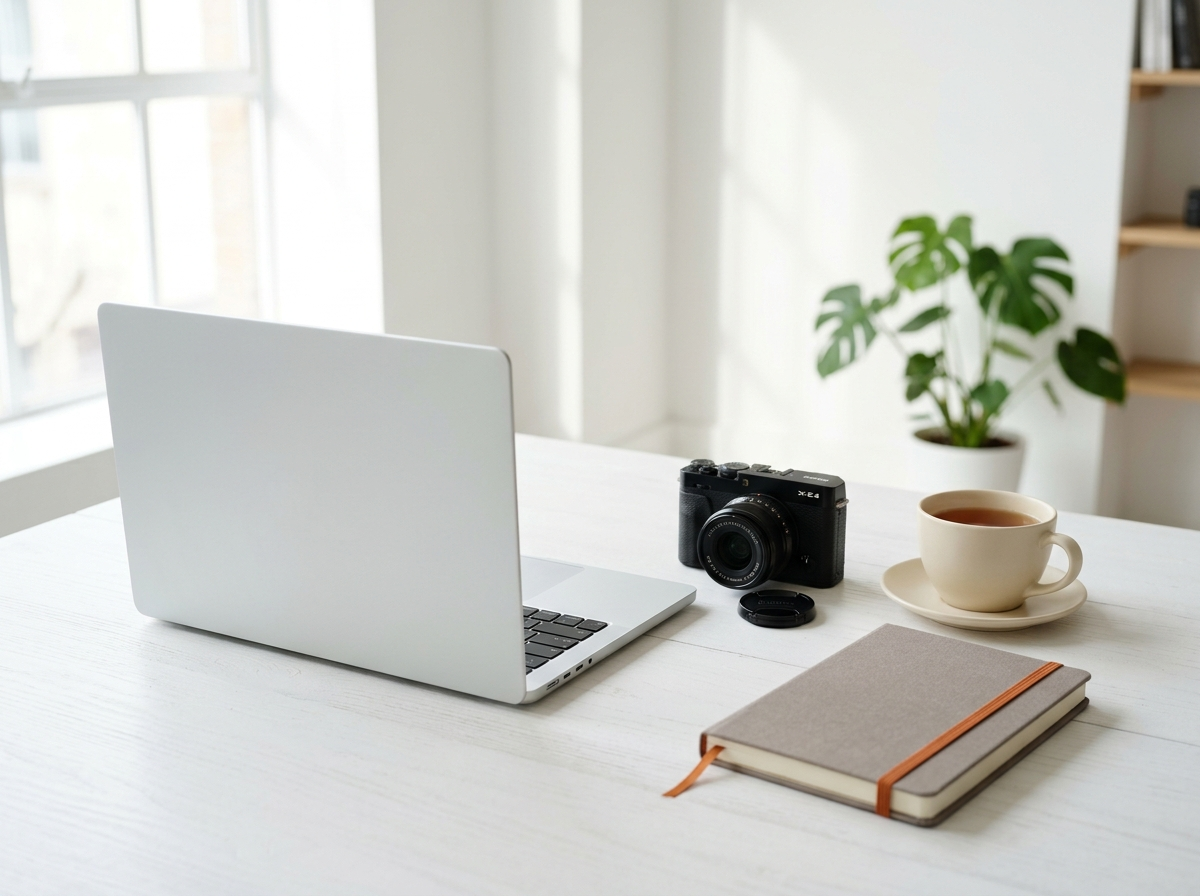
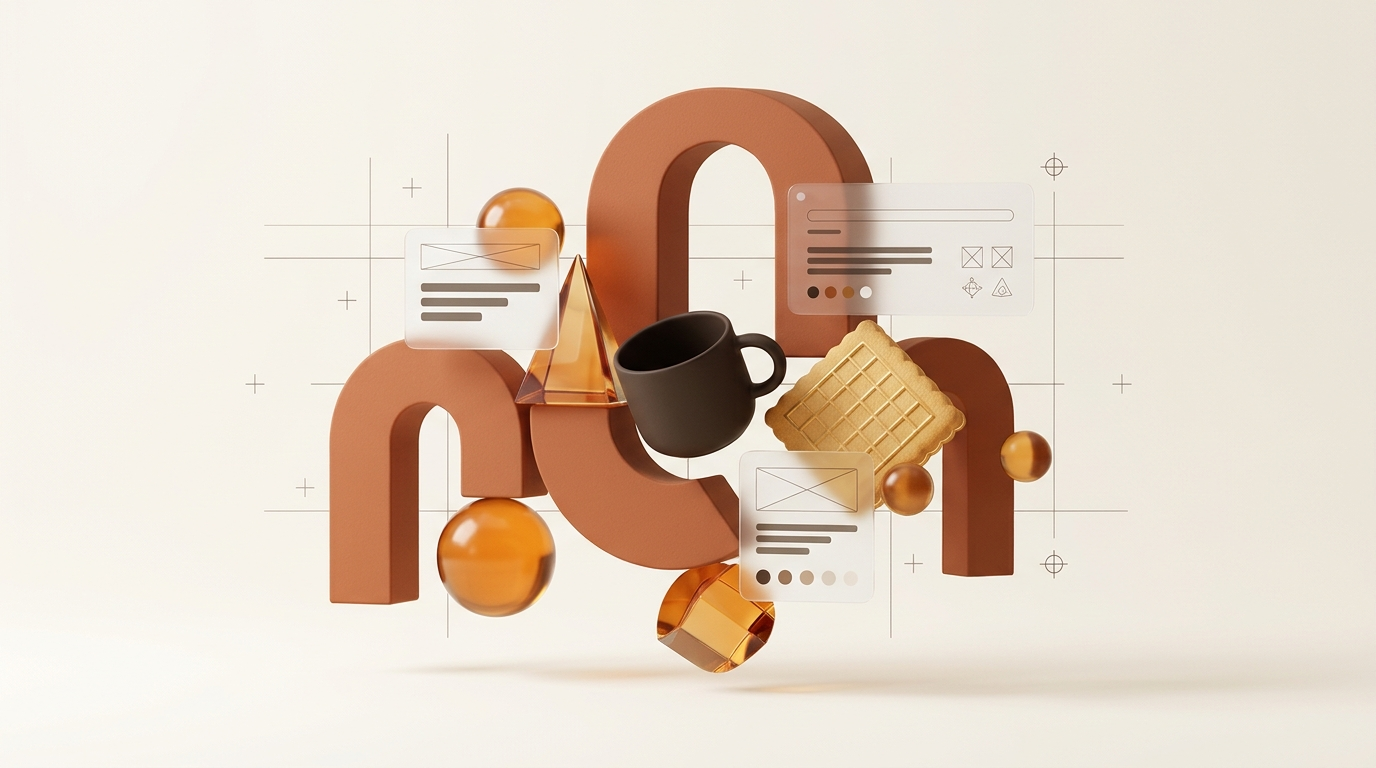
yretdg

diff --git a/css/style.css b/css/style.css
@@ -4887,8 +4887,7 @@ body.thinkb-light-theme {
   font-style: normal !important;
 }
 
-/* Remove Heavy Bold Globally — Clean Light & Regular ThinkB Typography */
-body.thinkb-light-theme *,
+/* Remove Heavy Bold Globally — Clean Light & Regular Poppins (WITHOUT Breaking Font Awesome Icons!) */
 body.thinkb-light-theme h1,
 body.thinkb-light-theme h2,
 body.thinkb-light-theme h3,
@@ -4902,6 +4901,9 @@ body.thinkb-light-theme button,
 body.thinkb-light-theme span,
 body.thinkb-light-theme p,
 body.thinkb-light-theme li,
+body.thinkb-light-theme small,
+body.thinkb-light-theme blockquote,
+body.thinkb-light-theme label,
 body.thinkb-light-theme input,
 body.thinkb-light-theme textarea,
 body.thinkb-light-theme select {
@@ -4917,65 +4919,113 @@ body.thinkb-light-theme .mil-button {
   font-weight: 500 !important;
 }
 
+/* Strictly Preserve Font Awesome 6 Icon Families, Weights & Visibility */
 body.thinkb-light-theme i,
 body.thinkb-light-theme .fa-solid,
-body.thinkb-light-theme .fa-brands,
-body.thinkb-light-theme .fa-regular {
+body.thinkb-light-theme .fas {
+  font-family: "Font Awesome 6 Free" !important;
   font-style: normal !important;
   font-weight: 900 !important;
 }
-body.thinkb-light-theme .fa-brands {
+
+body.thinkb-light-theme .fa-regular,
+body.thinkb-light-theme .far {
+  font-family: "Font Awesome 6 Free" !important;
+  font-style: normal !important;
   font-weight: 400 !important;
 }
 
-/* Monochrome 3D Watermark Logo & Subtle 3D Animated Elements (No Color Distraction) */
+body.thinkb-light-theme .fa-brands,
+body.thinkb-light-theme .fab {
+  font-family: "Font Awesome 6 Brands" !important;
+  font-style: normal !important;
+  font-weight: 400 !important;
+}
+
+/* Fix Portfolio Expanded Card Spacing & Button Visibility on Light Theme */
+body.thinkb-light-theme .portfolio___section .flex__box .p__box .txt__box {
+  justify-content: flex-start !important;
+  gap: 22px !important;
+  padding: 28px !important;
+}
+
+body.thinkb-light-theme .portfolio___section .txt__box .flex__content {
+  margin-top: 0 !important;
+  flex: 1;
+  align-items: center;
+}
+
+body.thinkb-light-theme .portfolio___section .txt__box .view-work-btn,
+body.thinkb-light-theme .portfolio___section .txt__box .view-work-btn:hover {
+  background: #FF6B00 !important;
+  color: #FFFFFF !important;
+  border-color: #FF6B00 !important;
+}
+
+body.thinkb-light-theme .portfolio___section .txt__box .view-work-btn i,
+body.thinkb-light-theme .tb-btn i,
+body.thinkb-light-theme .hb-btn i,
+body.thinkb-light-theme .hw-btn i,
+body.thinkb-light-theme .offcanvas-wa-cta i {
+  color: #FFFFFF !important;
+  -webkit-text-fill-color: #FFFFFF !important;
+}
+
+body.thinkb-light-theme .portfolio___section .flex__box .p__box .img__box .p__tag {
+  background: rgba(255, 255, 255, 0.94) !important;
+  color: #FF6B00 !important;
+  border: 1px solid rgba(255, 107, 0, 0.32) !important;
+  text-shadow: none !important;
+}
+
+/* Monochrome 3D Watermark Logo & Subtle 3D Animated Elements (Clearly Visible Behind Transparent White Canvas) */
 body.thinkb-light-theme .cyber-bg-fx {
   background: transparent;
   z-index: 0;
 }
 body.thinkb-light-theme .bg-logo-rotor--hero {
-  width: 340px;
-  height: 340px;
-  top: 9vh;
+  width: 360px;
+  height: 360px;
+  top: 10vh;
   right: 2.5vw;
-  opacity: 0.13;
+  opacity: 0.22;
 }
 body.thinkb-light-theme .bg-logo-ring-outer {
-  border: 1.5px dashed rgba(20, 20, 20, 0.28);
+  border: 1.5px dashed rgba(20, 20, 20, 0.34);
   box-shadow: none;
 }
 body.thinkb-light-theme .bg-logo-ring-inner {
-  border: 1px solid rgba(20, 20, 20, 0.14);
-  border-top-color: rgba(20, 20, 20, 0.38);
-  border-bottom-color: rgba(20, 20, 20, 0.38);
+  border: 1px solid rgba(20, 20, 20, 0.18);
+  border-top-color: rgba(20, 20, 20, 0.45);
+  border-bottom-color: rgba(20, 20, 20, 0.45);
 }
 body.thinkb-light-theme .bg-logo-watermark {
-  filter: grayscale(100%) contrast(1.15) !important;
-  opacity: 0.85;
+  filter: grayscale(100%) contrast(1.2) !important;
+  opacity: 0.92;
 }
 body.thinkb-light-theme .bg-3d-cube-zone {
-  opacity: 0.13;
+  opacity: 0.22;
 }
 body.thinkb-light-theme .bg-3d-cube-face {
-  border: 1.5px solid rgba(20, 20, 20, 0.32);
-  background: rgba(20, 20, 20, 0.04);
-  box-shadow: inset 0 0 18px rgba(0, 0, 0, 0.04);
-  color: #262626 !important;
+  border: 1.5px solid rgba(20, 20, 20, 0.38);
+  background: rgba(20, 20, 20, 0.05);
+  box-shadow: inset 0 0 18px rgba(0, 0, 0, 0.05);
+  color: #1A1A1A !important;
 }
 body.thinkb-light-theme .bg-3d-cube-face i,
 body.thinkb-light-theme .bg-3d-cube-face span {
-  color: #262626 !important;
-  -webkit-text-fill-color: #262626 !important;
+  color: #1A1A1A !important;
+  -webkit-text-fill-color: #1A1A1A !important;
 }
 body.thinkb-light-theme .bg-3d-dm-item {
-  color: rgba(20, 20, 20, 0.11) !important;
+  color: rgba(20, 20, 20, 0.20) !important;
   filter: none !important;
 }
 body.thinkb-light-theme .bg-3d-crosshair {
-  color: rgba(20, 20, 20, 0.22) !important;
+  color: rgba(20, 20, 20, 0.32) !important;
 }
 body.thinkb-light-theme .bg-3d-geoFrame {
-  border: 1.5px solid rgba(20, 20, 20, 0.12) !important;
+  border: 1.5px solid rgba(20, 20, 20, 0.20) !important;
   box-shadow: none !important;
 }
 
@@ -5123,13 +5173,13 @@ body.thinkb-light-theme .offcanvas-info-item span {
   color: #262626 !important;
 }
 
-/* Clean Minimal Light Sections (Translucent White & Off-White So Monochrome 3D Watermarks Show Through) */
+/* Clean Minimal Light Sections (Transparent White & Light Veil So Monochrome 3D Logo & Camera Show Clearly) */
 body.thinkb-light-theme .intro-area,
 body.thinkb-light-theme .service-area,
 body.thinkb-light-theme .about__section,
 body.thinkb-light-theme .collective-team-area,
 body.thinkb-light-theme .tb-faq-area {
-  background: rgba(255, 255, 255, 0.82) !important;
+  background: transparent !important;
   border-color: #EFEFEF !important;
 }
 
@@ -5139,8 +5189,129 @@ body.thinkb-light-theme .founder-area,
 body.thinkb-light-theme .testimonial__se_ction,
 body.thinkb-light-theme .home-cta-area,
 body.thinkb-light-theme .cta-area {
-  background: rgba(248, 248, 249, 0.84) !important;
+  background: rgba(246, 246, 248, 0.45) !important;
   border-color: #EFEFEF !important;
+}
+
+/* Slightly Increased, Generous & Easy-to-Read Font Sizes + Attractive Hero Framing */
+html {
+  font-size: 17px;
+}
+
+body.thinkb-light-theme .intro-area {
+  padding: 64px 0 88px !important;
+}
+
+body.thinkb-light-theme .intro-title {
+  font-size: clamp(2.65rem, 4.9vw, 4.25rem) !important;
+  line-height: 1.15 !important;
+  margin-bottom: 22px !important;
+}
+
+body.thinkb-light-theme .intro-content .text {
+  font-size: 18.5px !important;
+  line-height: 1.75 !important;
+  max-width: 560px;
+}
+
+body.thinkb-light-theme p {
+  font-size: 16.5px;
+}
+
+.hero-craft-pills {
+  display: flex;
+  flex-wrap: wrap;
+  gap: 10px;
+  margin-top: 28px;
+}
+
+.hero-craft-pill {
+  display: inline-flex;
+  align-items: center;
+  gap: 8px;
+  padding: 8px 16px;
+  border-radius: 999px;
+  background: #FFFFFF;
+  border: 1px solid #E6E6E6;
+  color: #2A2A2A !important;
+  font-size: 14px;
+  box-shadow: 0 4px 12px rgba(0, 0, 0, 0.04);
+  transition: var(--transition);
+}
+
+.hero-craft-pill i {
+  color: #FF6B00;
+  font-size: 13px;
+}
+
+.hero-craft-pill:hover {
+  border-color: #FF6B00;
+  color: #FF6B00 !important;
+  transform: translateY(-2px);
+}
+
+.hero-photo-frame {
+  position: relative;
+  padding: 14px;
+}
+
+.hero-accent-corner {
+  position: absolute;
+  width: 52px;
+  height: 52px;
+  border-color: #FF6B00;
+  border-style: solid;
+  pointer-events: none;
+  z-index: 3;
+}
+
+.hero-accent-corner--tl {
+  top: 0;
+  left: 0;
+  border-width: 2.5px 0 0 2.5px;
+  border-top-left-radius: 22px;
+}
+
+.hero-accent-corner--br {
+  bottom: 0;
+  right: 0;
+  border-width: 0 2.5px 2.5px 0;
+  border-bottom-right-radius: 22px;
+}
+
+.hero-studio-caption {
+  position: absolute;
+  left: 28px;
+  bottom: 28px;
+  z-index: 4;
+  display: inline-flex;
+  align-items: center;
+  gap: 12px;
+  padding: 12px 18px;
+  border-radius: 16px;
+  background: rgba(255, 255, 255, 0.94);
+  backdrop-filter: blur(12px);
+  border: 1px solid #EAEAEA;
+  box-shadow: 0 12px 30px rgba(0, 0, 0, 0.12);
+}
+
+.hero-caption-icon {
+  width: 38px;
+  height: 38px;
+  border-radius: 11px;
+  font-size: 15px;
+}
+
+.hero-studio-caption strong {
+  display: block;
+  font-size: 14.5px;
+  color: #141414 !important;
+  line-height: 1.25;
+}
+
+.hero-studio-caption span {
+  font-size: 12.5px;
+  color: #666666 !important;
 }
 
 /* Hero Clean Styling */

diff --git a/index.html b/index.html
@@ -359,7 +359,7 @@
   <link rel="stylesheet" href="https://cdn.jsdelivr.net/npm/swiper@11/swiper-bundle.min.css" />
 
     <!-- Master Stylesheet (ThinkB-Inspired Simple White, Charcoal & Orange Theme) -->
-  <link rel="stylesheet" href="css/style.css?v=26" />
+  <link rel="stylesheet" href="css/style.css?v=28" />
 </head>
 
 <body class="thinkb-light-theme">
@@ -692,22 +692,21 @@
   </header>
 
   <main>
-    <!-- 4. HERO / INTRO AREA (Simple & Minimal ThinkB Style) -->
+    <!-- 4. HERO / INTRO AREA (Attractive Minimal ThinkB Style With Tea & Biscuit Studio Story) -->
     <section class="intro-area">
       <div class="container">
         <div class="intro-grid">
           <div class="intro-content">
             <span class="intro-eyebrow">
-              <span class="liquid-icon eyebrow-icon"><i class="fa-solid fa-sparkles"></i></span>
-              Creative Media, Branding &amp; Digital Studio
+              <span class="liquid-icon eyebrow-icon"><i class="fa-solid fa-mug-hot"></i></span>
+              Tea Biscuit Media • Creative, Branding &amp; Digital Studio
             </span>
             <h1 class="intro-title">
-              We Craft Brands, Websites &amp; Campaigns That <span class="accent-text">Stand Out.</span>
+              We Craft Brands, Websites &amp; Films That <span class="accent-text">Stand Out.</span>
             </h1>
             <p class="text">
-              Branding. Website Development. Search Optimization. Social Media &amp; Commercial Ad Shoots. At
-              TEABISCUITMEDIA, we combine clean design, thoughtful storytelling, and modern technology to help your
-              business grow naturally.
+              Born over warm cups of tea and big ideas — TEABISCUITMEDIA blends clean design, modern websites,
+              thoughtful marketing, and commercial ad shoots to help your brand grow with clarity.
             </p>
             <div class="intro-actions">
               <a href="#enquiry-panel" class="mil-button">
@@ -721,12 +720,31 @@
                 Start a Conversation
               </button>
             </div>
+
+            <!-- Clean Minimal Core Craft Pills -->
+            <div class="hero-craft-pills">
+              <a href="#enquiry-panel" class="hero-craft-pill"><i class="fa-solid fa-laptop-code"></i> Website Development</a>
+              <a href="#enquiry-panel" class="hero-craft-pill"><i class="fa-solid fa-magnifying-glass"></i> SEO &amp; Ads</a>
+              <a href="#enquiry-panel" class="hero-craft-pill"><i class="fa-solid fa-share-nodes"></i> Social Media</a>
+              <a href="#enquiry-panel" class="hero-craft-pill"><i class="fa-solid fa-clapperboard"></i> Ad Shooting</a>
+            </div>
           </div>
 
           <div class="intro-thumb">
-            <div class="main-thumb">
-              <img src="assets/images/hero-banner.png?v=24"
-                alt="TEABISCUITMEDIA Creative Studio & Digital Agency" />
+            <div class="hero-photo-frame">
+              <span class="hero-accent-corner hero-accent-corner--tl" aria-hidden="true"></span>
+              <span class="hero-accent-corner hero-accent-corner--br" aria-hidden="true"></span>
+              <div class="main-thumb">
+                <img src="assets/images/hero-banner.png?v=27"
+                  alt="Tea Biscuit Media — Steaming Tea, Crisp Biscuits, Laptop & Camera on a Minimalist Creative Studio Desk" />
+              </div>
+              <div class="hero-studio-caption">
+                <span class="liquid-icon hero-caption-icon"><i class="fa-solid fa-mug-hot"></i></span>
+                <div>
+                  <strong>Brewed Fresh in Bengaluru</strong>
+                  <span>Creative • Digital • Technology</span>
+                </div>
+              </div>
             </div>
           </div>
         </div>
@@ -2404,7 +2422,7 @@
     <div class="section-pop-dialog" role="dialog" aria-modal="true" aria-labelledby="sectionPopTitle">
       <div class="section-pop-header">
         <div class="section-pop-header-left">
-          <span class="section-pop-pill"><i class="fa-solid fa-sparkles"></i> Tea Biscuit Media</span>
+          <span class="section-pop-pill"><i class="fa-solid fa-wand-magic-sparkles"></i> Tea Biscuit Media</span>
           <h3 id="sectionPopTitle" class="section-pop-title">Explore</h3>
         </div>
         <button type="button" class="section-pop-close liquid-icon" id="closeSectionPop" aria-label="Close Page View">
